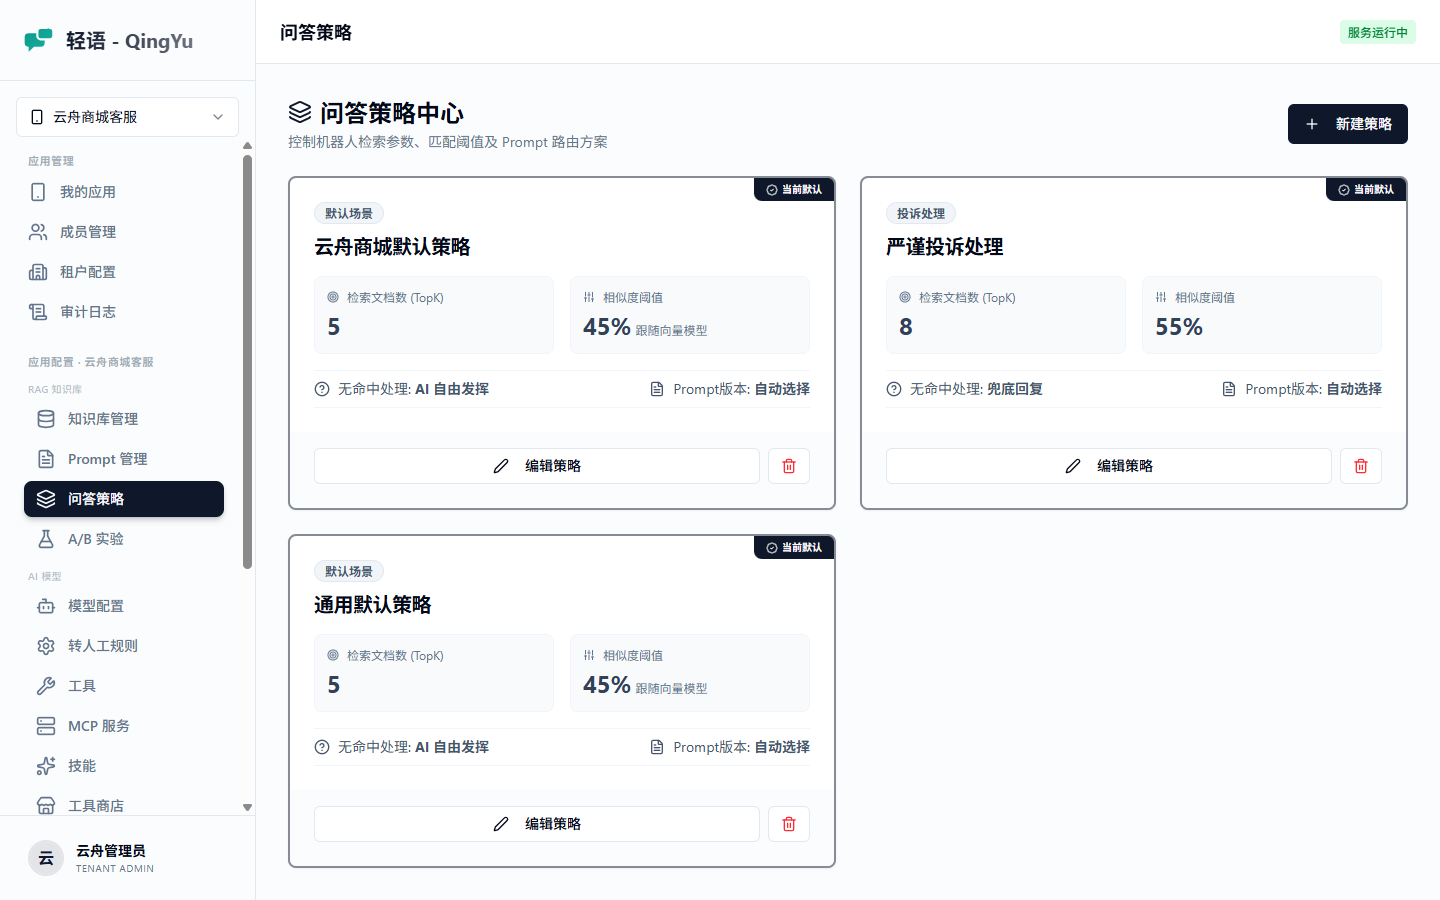
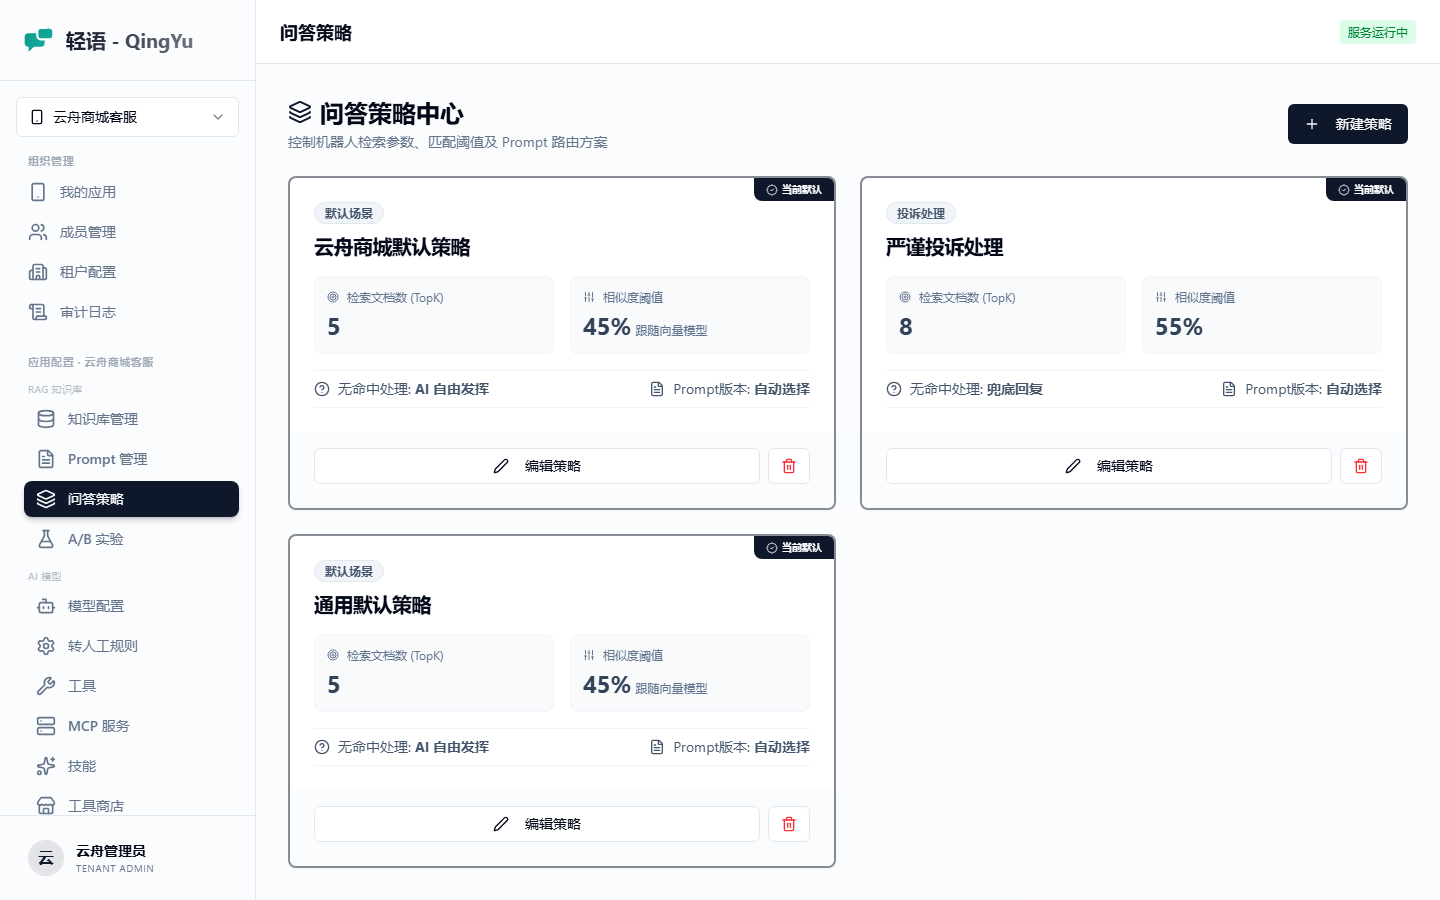
feat(ui): 侧边栏把平台区与租户区区分开，应用管理改名组织管理
平台管理员在同一个侧边栏里同时看两种东西——「运营平台本身」（租户/概览/配置）
与「管当前租户的应用」。此前两者只有一条同样的灰字小标题在区分，选中态也是同一个
chip，在两个视角之间切换时界面上没有任何提示。

· 平台管理拆成「平台运营」与「共享能力」两组：前者是管理员自己用的，后者是平台供给
  租户的，合成一组时看不出哪一条会影响到所有租户
· 平台区整块渲染成浅底虚线卡片，标题换成带盾牌图标的「平台」徽标；滚动到下方应用
  菜单时，这个色块是唯一能告诉人「上面那几条是全局的」的东西
· 补 dark: 变体。目前全仓没有任何地方给 <html> 挂 .dark（主题切换器还没做），所以
  它们今天不会命中；但深色下 primary 会反转为近白，描边与淡底要各自调一个量级，
  等做主题时直接可用
· 「应用管理」改名「组织管理」：下面四条里三条是租户级（成员/租户配置/审计日志），
  真正的应用列表叫「我的应用」，原名会让人以为这里是应用列表页

测试：MainLayout 新增 2 条（平台区徽标与两组标题、租户管理员看不到平台区）。
变异验证过——把徽标文案改掉，第一条转红。

截图：重拍 14 张（01-login 与 15-widget-chat 无侧栏，但一起统一渲染口径）。
拍摄用 Playwright 1440×900，加了 --disable-lcd-text：默认的次像素抗锯齿在深色底上
会产生红蓝彩边，白字按钮最明显。

diff --git a/frontend/src/layouts/MainLayout.tsx b/frontend/src/layouts/MainLayout.tsx
@@ -5,7 +5,7 @@ import {
     History, FileText, Layers, Settings, Bot,
     LogOut, User as UserIcon, KeyRound, Users, Smartphone, Building,
     Activity, Boxes, SlidersHorizontal, ScrollText, Building2, Plug, BarChart3,
-    FlaskConical, Wrench, Sparkles, Server, Package, Store
+    FlaskConical, Wrench, Sparkles, Server, Package, Store, ShieldCheck
 } from 'lucide-react';
 import { cn } from '@/lib/utils';
 import { useAuthStore } from '@/stores/authStore';
@@ -43,26 +43,47 @@ interface NavSection {
     groups: NavGroup[];
     requireApp?: boolean;
     roles?: string[];
+    /**
+     * 平台区：整块渲染成带底色的卡片，标题换成「平台」徽标。
+     *
+     * <p>平台管理员要在同一个侧栏里同时看两种东西——「运营平台本身」（租户/概览/配置）与
+     * 「管当前租户的应用」。此前两者只有一条同样的灰字小标题在区分，选中态也是同一个 chip，
+     * 在两个视角之间切换时界面上没有任何提示。
+     */
+    scope?: 'platform';
 }
 
 // 菜单深度分组（SaaS平台规划.md 3.4）：平台管理 → 应用管理 → 应用配置 → 客服中心 → 数据统计
 const sections: NavSection[] = [
     {
         title: '平台管理',
+        scope: 'platform',
         roles: ['PLATFORM_ADMIN'],
-        groups: [{
-            items: [
-                { label: '租户列表', path: '/tenants', icon: Building },
-                { label: '系统概览', path: '/platform/overview', icon: Activity },
-                { label: '共享模型池', path: '/platform/models', icon: Boxes },
-                { label: '共享工具', path: '/platform/tools', icon: Wrench },
-                { label: '能力包', path: '/platform/packages', icon: Package },
-                { label: '平台配置', path: '/platform/config', icon: SlidersHorizontal },
-            ],
-        }],
+        // 两组是两种心智模型：「运营平台」是管理员自己用的，「共享能力」是平台供给租户的。
+        // 合成一组时界面没有任何东西告诉人哪一条会影响到所有租户。
+        groups: [
+            {
+                title: '平台运营',
+                items: [
+                    { label: '租户列表', path: '/tenants', icon: Building },
+                    { label: '系统概览', path: '/platform/overview', icon: Activity },
+                    { label: '平台配置', path: '/platform/config', icon: SlidersHorizontal },
+                ],
+            },
+            {
+                title: '共享能力',
+                items: [
+                    { label: '共享模型池', path: '/platform/models', icon: Boxes },
+                    { label: '共享工具', path: '/platform/tools', icon: Wrench },
+                    { label: '能力包', path: '/platform/packages', icon: Package },
+                ],
+            },
+        ],
     },
     {
-        title: '应用管理',
+        // 叫「组织管理」而不是「应用管理」：下面四条里有三条是租户级（成员 / 租户配置 /审计日志），
+        // 真正的应用列表叫「我的应用」，用「应用管理」会让人以为这里是应用列表页
+        title: '组织管理',
         groups: [{
             items: [
                 { label: '我的应用', path: '/applications', icon: Smartphone, roles: ['TENANT_ADMIN', 'PLATFORM_ADMIN'] },
@@ -182,12 +203,32 @@ const MainLayout: React.FC = () => {
                             .filter((group) => group.items.length > 0);
                         if (visibleGroups.length === 0) return null;
                         const disabled = !!section.requireApp && !currentApp;
+                        const isPlatform = section.scope === 'platform';
                         return (
-                            <div key={section.title} className="space-y-1">
-                                <p className="px-3 text-[11px] font-semibold uppercase tracking-wider text-muted-foreground/60">
-                                    {section.title}
-                                    {section.requireApp && currentApp ? ` · ${currentApp.name}` : ''}
-                                </p>
+                            <div
+                                key={section.title}
+                                className={cn(
+                                    "space-y-1",
+                                    // dark: 两个变体是为将来接入主题切换备的（目前全仓没有任何地方给 <html> 挂 .dark，
+                                    // 所以它们今天不会命中）。深色下 primary 反转为近白（210 40% 98%），
+                                    // 淡底和描边需要各自调一个量级：浅色的 4% / 25% 到深色下要么看不见要么太亮。
+                                    isPlatform && "rounded-xl border border-dashed border-primary/25 bg-primary/[0.04] p-2 "
+                                        + "dark:border-primary/20 dark:bg-primary/[0.07]"
+                                )}
+                            >
+                                {isPlatform ? (
+                                    // 平台区标题换成徽标：滚动到下方应用菜单时，这个色块是唯一能告诉人
+                                    // 「上面那几条是全局的，会影响到所有租户」的东西
+                                    <span className="mx-1 inline-flex items-center gap-1.5 rounded-md bg-primary/10 px-2 py-0.5 text-[11px] font-semibold tracking-wider text-primary dark:bg-primary/15">
+                                        <ShieldCheck className="w-3.5 h-3.5" />
+                                        平台
+                                    </span>
+                                ) : (
+                                    <p className="px-3 text-[11px] font-semibold uppercase tracking-wider text-muted-foreground/60">
+                                        {section.title}
+                                        {section.requireApp && currentApp ? ` · ${currentApp.name}` : ''}
+                                    </p>
+                                )}
                                 {visibleGroups.map((group, groupIndex) => (
                                     <div key={group.title ?? groupIndex} className="space-y-1">
                                         {group.title && (

diff --git a/frontend/src/layouts/MainLayout.test.tsx b/frontend/src/layouts/MainLayout.test.tsx
@@ -37,3 +37,47 @@ describe('MainLayout 侧边栏缩进', () => {
         expect(indents.size, `缩进不一致：${links.map((a) => `${a.textContent}=${a.classList.contains('ml-2')}`).join(', ')}`).toBe(1);
     });
 });
+
+/**
+ * 平台菜单与租户菜单必须能一眼分开。
+ *
+ * <p>平台管理员在同一个侧栏里同时看两种东西：「运营平台本身」与「管当前租户的应用」。
+ * 此前两者只有一条同样的灰字小标题区分、选中态也是同一个 chip，切视角时界面毫无提示。
+ * 这条测试钉的是「平台区有独立标识 + 能力与运营分两组」，不是某一个菜单项的文案。
+ */
+describe('MainLayout 平台区', () => {
+    beforeEach(() => {
+        useAuthStore.setState({
+            token: 't', isAuthenticated: true,
+            user: { token: 't', userId: 1, username: 'admin', nickname: '超级管理员', avatar: '', role: 'PLATFORM_ADMIN', tenantId: null, tenantName: '' },
+        });
+        useAppStore.setState({ currentApp: { id: 20, name: '云舟商城客服' } });
+    });
+
+    it('平台区带「平台」徽标，且分成平台运营与共享能力两组', async () => {
+        render(<MemoryRouter initialEntries={['/tenants']}><MainLayout /></MemoryRouter>);
+        await act(async () => { await Promise.resolve(); });
+
+        // 徽标是平台区独有的标识：没有它，下方应用菜单滚动上来后就分不出哪些是全局的了
+        expect(screen.getByText('平台')).toBeTruthy();
+        expect(screen.getByText('平台运营')).toBeTruthy();
+        expect(screen.getByText('共享能力')).toBeTruthy();
+
+        // 「共享模型池」属于「共享能力」，不能又回到了「平台运营」里
+        const sharedGroup = screen.getByText('共享能力').parentElement!;
+        expect(Array.from(sharedGroup.querySelectorAll('a')).map((a) => a.textContent))
+            .toEqual(expect.arrayContaining(['共享模型池', '共享工具', '能力包']));
+    });
+
+    it('租户管理员看不到平台区', async () => {
+        useAuthStore.setState({
+            token: 't', isAuthenticated: true,
+            user: { token: 't', userId: 2, username: 'a', nickname: '租户', avatar: '', role: 'TENANT_ADMIN', tenantId: 1, tenantName: '云舟' },
+        });
+        render(<MemoryRouter initialEntries={['/chat']}><MainLayout /></MemoryRouter>);
+        await act(async () => { await Promise.resolve(); });
+
+        expect(screen.queryByText('平台')).toBeNull();
+        expect(screen.queryByText('共享能力')).toBeNull();
+    });
+});
